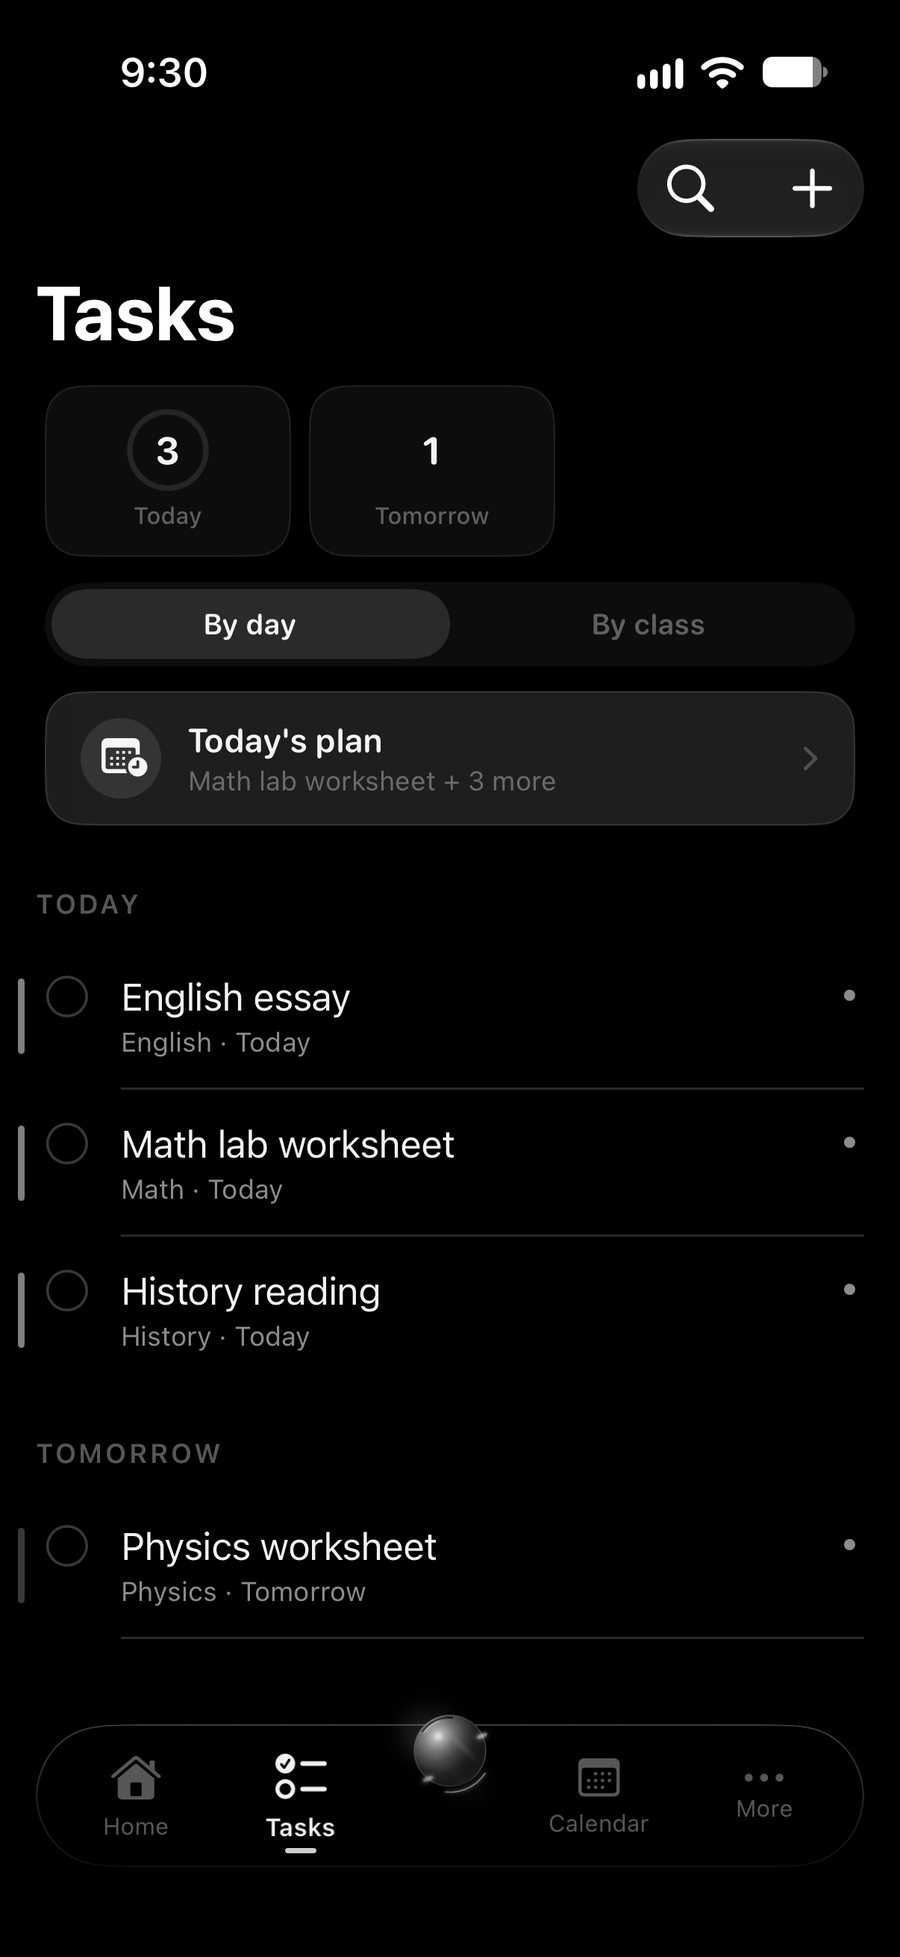
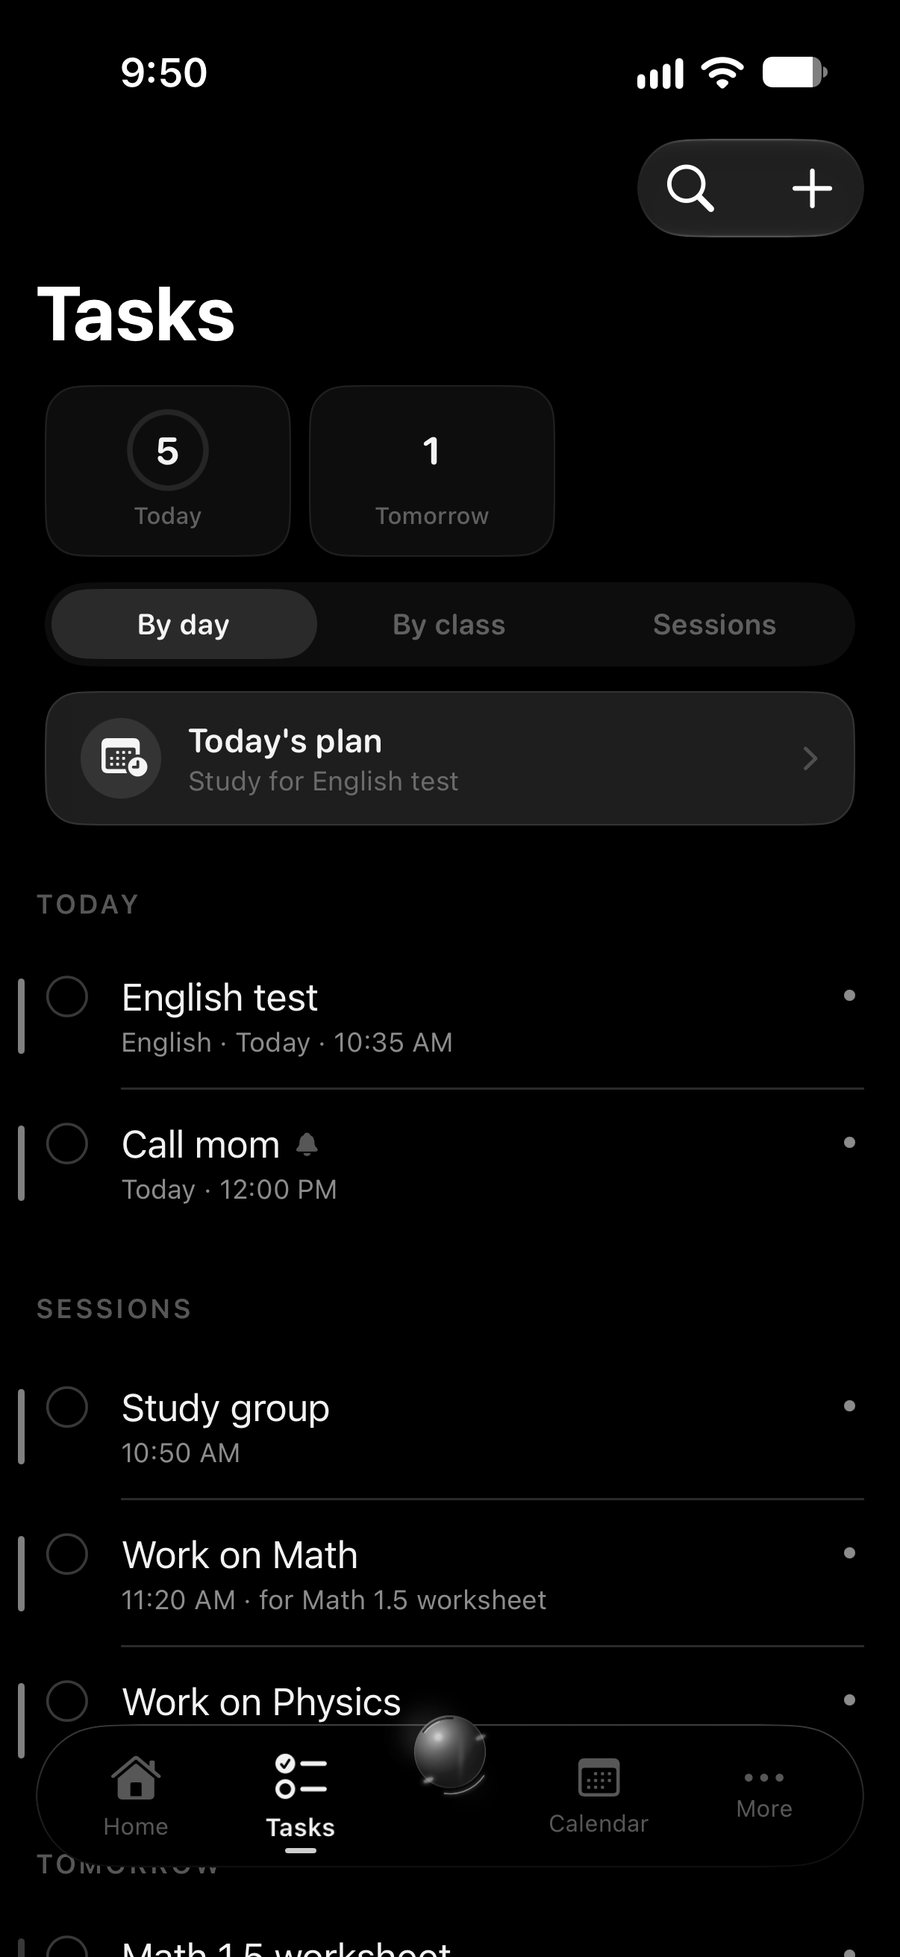
Screenshots: replace Math Lab data with a normal school morning

diff --git a/index.html b/index.html
@@ -173,7 +173,7 @@ footer a:hover{color:var(--text)}
       <h2>What’s happening now, and what’s next.</h2>
       <p class="body">Home shows the class you’re in and how many minutes are left, what’s due today, and the one thing worth doing next. Everything else stays out of the way.</p>
     </div>
-    <div class="art rv"><figure class="phone "><img src="screens/home.jpg" alt="Home screen showing Math with 10 minutes left, then the work due today" width="900" height="1957" loading="lazy"></figure></div>
+    <div class="art rv"><figure class="phone "><img src="screens/home.jpg" alt="Home screen showing Math with 35 minutes left, then an English test and study sessions for the morning" width="900" height="1957" loading="lazy"></figure></div>
   </div>
 </section>
 
@@ -185,7 +185,7 @@ footer a:hover{color:var(--text)}
       <p class="body">Homework, tests, events, reminders, and birthdays all live together. See them by day or by class, and swipe right to finish something. In the calendar, your classes run in a narrow column beside the rest of your day, so it’s easy to see when you’re free.</p>
     </div>
     <div class="duo rv">
-      <figure class="phone "><img src="screens/tasks.jpg" alt="Tasks list showing what is due today and tomorrow" width="900" height="1957" loading="lazy"></figure>
+      <figure class="phone "><img src="screens/tasks.jpg" alt="Tasks list showing today's English test, a reminder, and study sessions" width="900" height="1957" loading="lazy"></figure>
       <figure class="phone "><img src="screens/day2.jpg" alt="Calendar day view with classes beside events" width="900" height="1957" loading="lazy"></figure>
     </div>
   </div>
@@ -209,7 +209,7 @@ footer a:hover{color:var(--text)}
       <h2>Your school day, built in.</h2>
       <p class="body">Enter your periods once. Home shows the class you’re in and how many minutes are left, and the School tab lists what comes next with your homework underneath. You’ll see it on the Lock Screen and in the Dynamic Island too, and half days and special schedules are covered.</p>
     </div>
-    <div class="art rv"><figure class="phone "><img src="screens/school.jpg" alt="School tab showing the current class, when it ends, the next class, and homework below" width="900" height="1957" loading="lazy"></figure></div>
+    <div class="art rv"><figure class="phone "><img src="screens/school.jpg" alt="School tab showing 1st period Math until 10:25 AM, the next class, an English test, and homework below" width="900" height="1957" loading="lazy"></figure></div>
   </div>
 </section>
 
